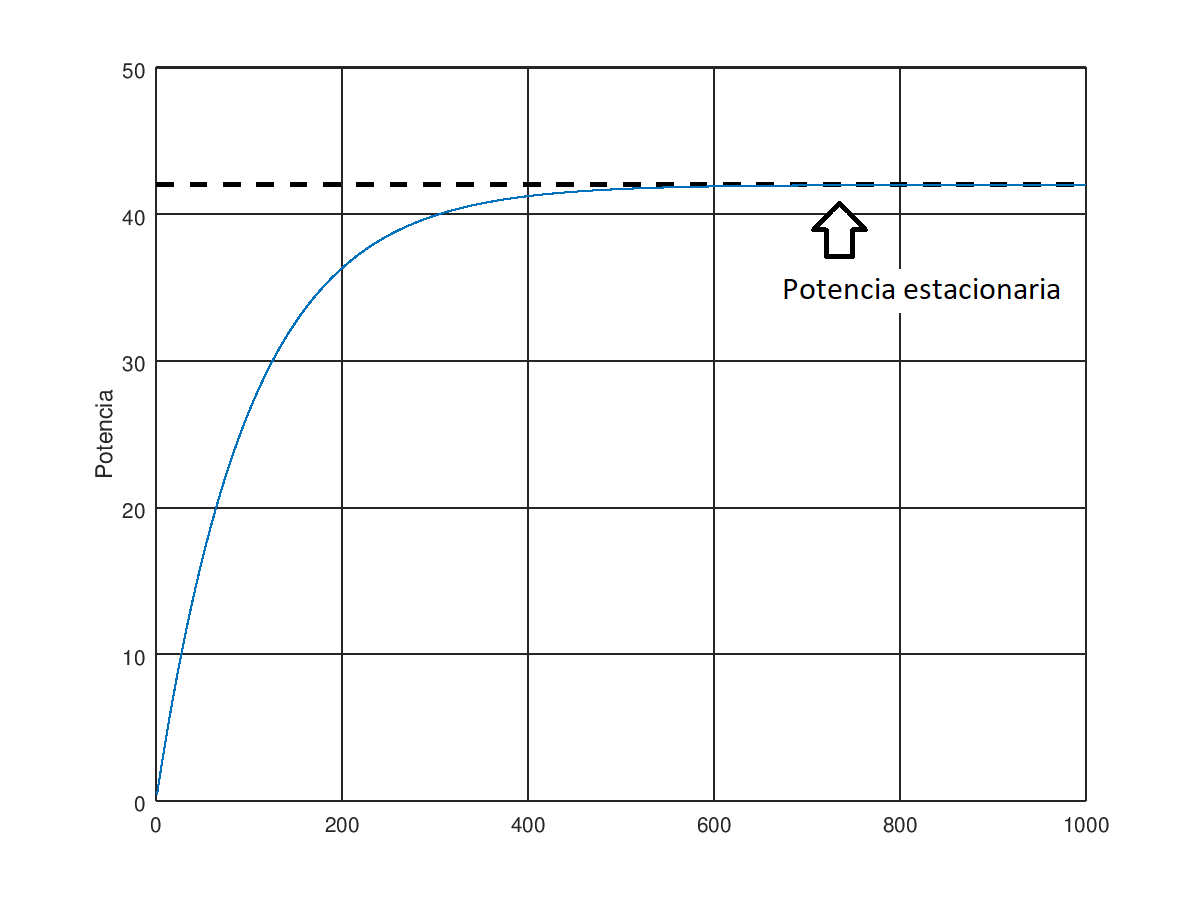
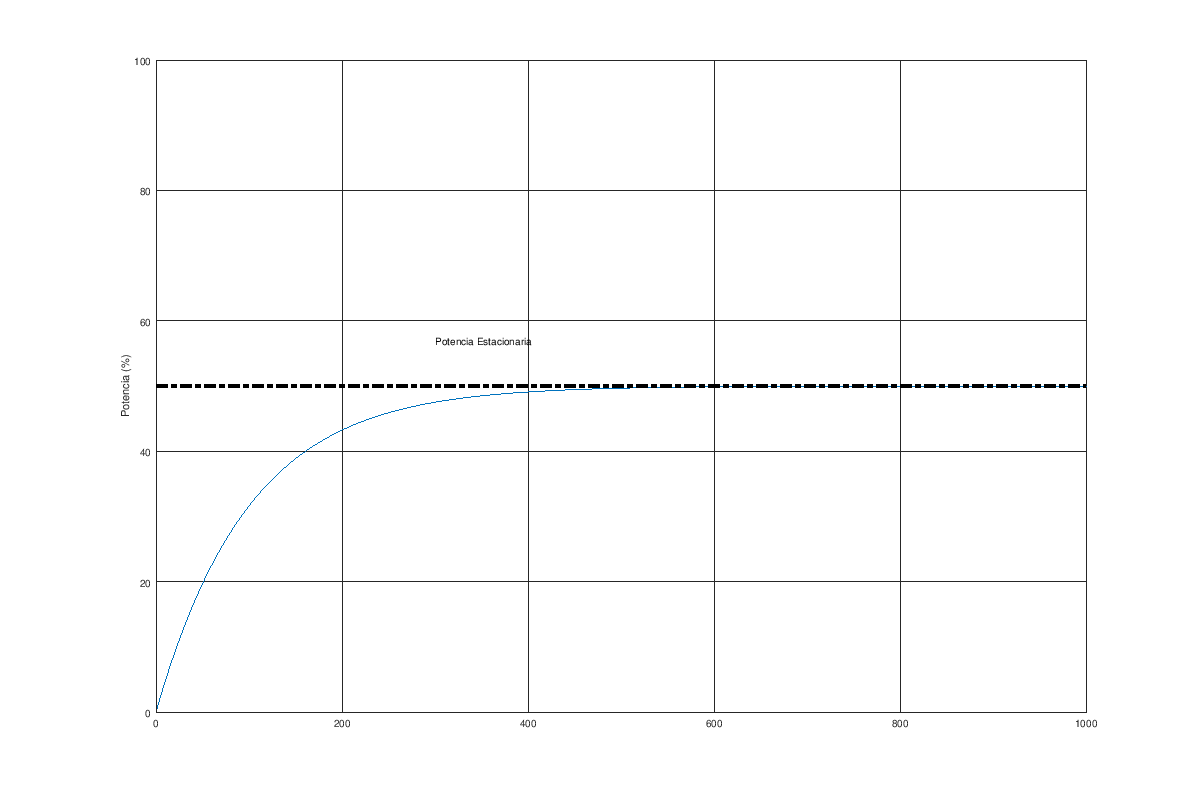
Renovación de las imagenes de ziegler nichols

diff --git a/simulations/app_graph.m b/simulations/app_graph.m
@@ -1,0 +1,42 @@
+% Este script genera las imagenes de potencia estacionaria, potencia minima
+% y temperatura de corte que se ven como ayuda en la aplicación principal
+clear all;
+close all;
+x = 1:1000;
+yestacionario = (1-exp(-x/100)) * 50;
+
+figure(1)
+plot(x, yestacionario);
+line ([0 1000], [50 50], "color", "k", "linewidth", 3, "linestyle", "-.");
+grid on;
+axis([0, 1000, 0, 100]);
+ylabel("Potencia (%)");
+text (300, 57, ['Potencia Estacionaria']);
+print("-S1200,800", "potenciaEstacionaria.png");
+print("-S240,180", "potenciaEstacionariaChica.png");
+
+figure(2)
+yminimo = ones(size(x)) * 30;
+yminimo(301:1000) += yestacionario(1:700);
+plot(x, yminimo);
+line ([150 150], [0 30], "color", "k", "linewidth", 3, "linestyle", "-.");
+hold on;
+grid on;
+axis([0, 1000, 0, 100]);
+ylabel("Potencia (%)");
+text (200, 15, ['Potencia Minima']);
+print("-S1200,800", "potenciaMinima.png");
+print("-S240,180", "potenciaMinimaChica.png");
+
+figure(3)
+ycorte = (1-exp(-x/100)) * 400;
+ycorte(400:1000) = -0.4 * (x(400:1000) - 400) + ycorte(400);
+plot(x, ycorte);
+line([0 1000], [ycorte(400) ycorte(400)], "color", "k", "linewidth", 3, "linestyle", "-.");
+hold on;
+grid on;
+axis([0, 1000, 0, 500]);
+ylabel("Temperatura (°C)")
+text (500, 450, ['Temperatura de corte']);
+print("-S1200,800", "temperaturaCorte.png");
+print("-S240,180", "temperaturaCorteChica.png");
